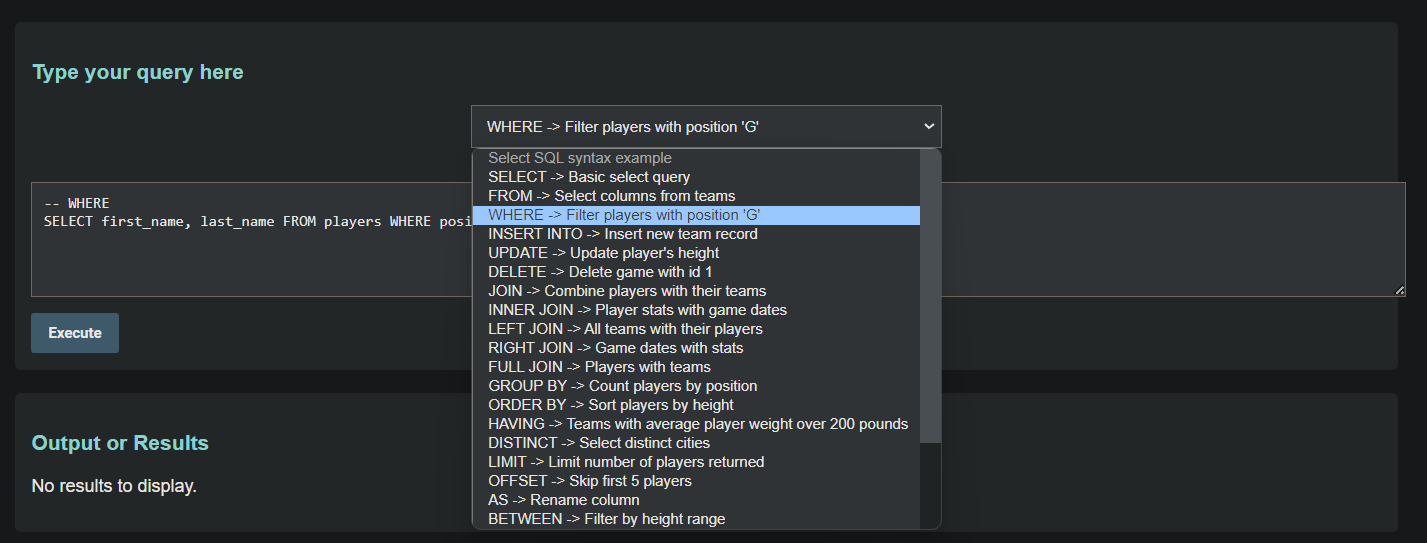
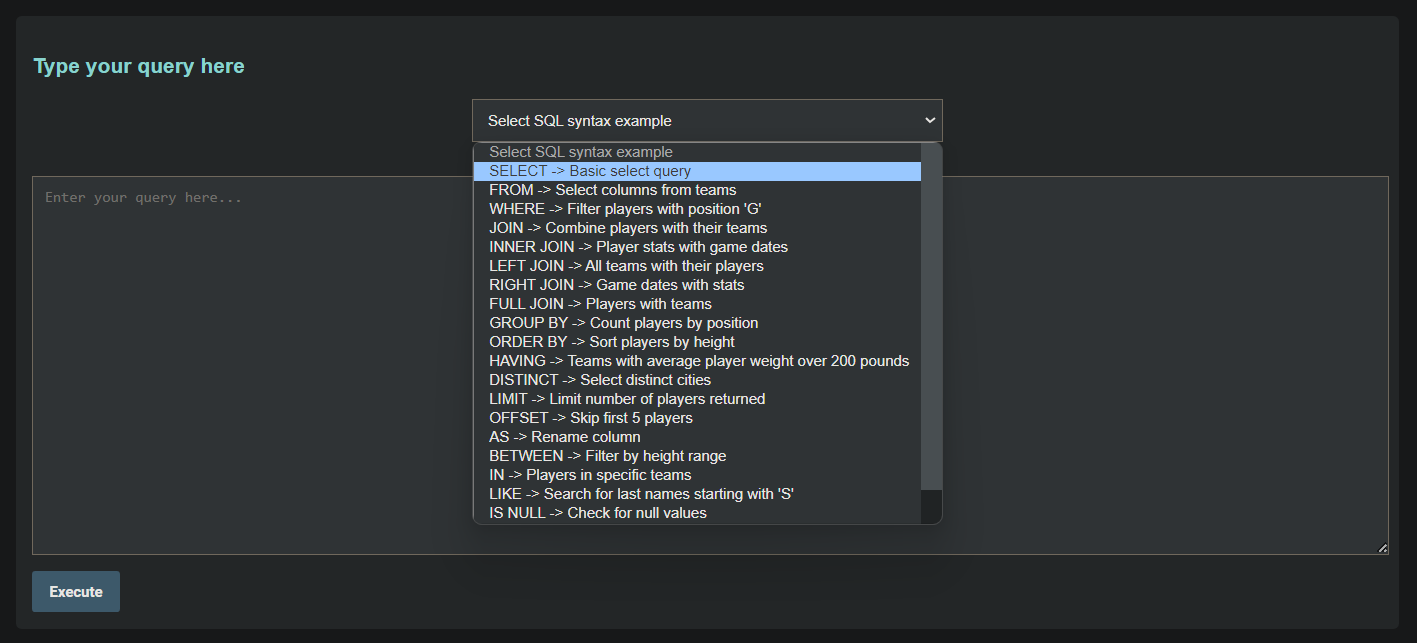
remove DML commands

diff --git a/templates/index.html b/templates/index.html
@@ -124,9 +124,6 @@
                         <option value="-- SELECT<br>SELECT first_name, last_name FROM players;">SELECT -> Basic select query</option>
                         <option value="-- FROM<br>SELECT full_name, city FROM teams;">FROM -> Select columns from teams</option>
                         <option value="-- WHERE<br>SELECT first_name, last_name FROM players WHERE position = 'G';">WHERE -> Filter players with position 'G'</option>
-                        <option value="-- INSERT INTO<br>INSERT INTO teams (id, abbreviation, city) VALUES (31, 'XYZ', 'New City');">INSERT INTO -> Insert new team record</option>
-                        <option value="-- UPDATE<br>UPDATE players SET height_feet = 7 WHERE id = 1;">UPDATE -> Update player's height</option>
-                        <option value="-- DELETE<br>DELETE FROM games WHERE id = 1;">DELETE -> Delete game with id 1</option>
                         <option value="-- JOIN<br>SELECT p.first_name, p.last_name, t.name FROM players p JOIN teams t ON p.team_id = t.id;">JOIN -> Combine players with their teams</option>
                         <option value="-- INNER JOIN<br>SELECT p.first_name, p.last_name, g.date FROM players p INNER JOIN stats s ON p.id = s.player_id INNER JOIN games g ON s.game_id = g.id;">INNER JOIN -> Player stats with game dates</option>
                         <option value="-- LEFT JOIN<br>SELECT t.name, p.first_name FROM teams t LEFT JOIN players p ON t.id = p.team_id;">LEFT JOIN -> All teams with their players</option>
@@ -145,7 +142,6 @@
                         <option value="-- IS NULL<br>SELECT first_name, last_name FROM players WHERE height_feet IS NULL;">IS NULL -> Check for null values</option>
                         <option value="-- UNION<br>SELECT city FROM teams UNION SELECT city FROM games;">UNION -> Combine cities from teams and games</option>
                         <option value="-- CASE<br>SELECT first_name, last_name, CASE WHEN height_feet > 6 THEN 'Tall' ELSE 'Short' END AS height_category FROM players;">CASE -> Conditional logic</option>
-                        <option value="-- CREATE TABLE<br>CREATE TABLE new_table (id INTEGER, name TEXT);">CREATE TABLE -> Create a new table</option>
                     </select>
                 </div>
                 <form action="/query" method="POST">

diff --git a/app.py b/app.py
@@ -8,7 +8,7 @@ app = Flask(__name__)
 app.secret_key = os.urandom(24)  # Replace with your secret key for session management
 
 # Hard-coded OpenAI API key for debugging purposes
-api_key = 'YOUR_API_KEY'
+api_key = 'your_api_key'
 
 if not api_key:
     app.logger.error("OPENAI_API_KEY not found in environment variables")
